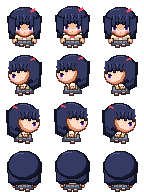
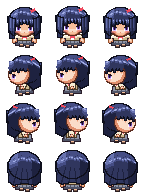
ちびキャラ：ユイの髪を束ごとに塗り分ける（放射状の束、天使の輪、前髪の光の筋、縦の束）
Claude-Session: https://claude.ai/code/session_017gxvkc2TW4xYgG5MuSL3N1

diff --git a/files.js b/files.js
@@ -2,7 +2,7 @@
 // マップなどを足したら scripts に1行足す（順番どおりに読み込む。main.js は最後）。
 // 版の番号 v は tools/stamp.py が書き換える。
 window.FILES = {
-  v: '20261127043421',
+  v: '20261127043822',
   scripts: [
     'engine/core.js',
     'engine/world.js',

diff --git a/tools/sprites/make_chibi.py b/tools/sprites/make_chibi.py
@@ -344,6 +344,76 @@ def head(a, c, side):
         a.part([('p', [(6.4, 9), (10, 7.4), (10.8, 9.2), (7.2, 10.8)])], c['ribbon1'], c['ribbon2'], lw=0.4)
 
 
+HAIR_TONES = ['#a3aee6', '#6873b0', '#454d84', '#30365e', '#1e2240']  # 女子の髪：光・明・中・暗・影
+
+
+def hair_shade(im, c, side):
+    """女子の髪を束ごとに塗り分ける（髪の色だけを塗り直す。輪郭や飾りはそのまま）。
+    頭頂：つむじから放射状の束、境目は暗い線、頭の丸みに沿った天使の輪（束の真ん中だけいちばん明るい）。
+    前髪：毛先の束ごと、上が明るく下ほど暗い、束の真ん中に光の筋。横・後ろの髪：縦の束、左が明るく右と下が暗い"""
+    import math
+    T = [rgb(h) for h in HAIR_TONES]
+    src = {tuple(c[k][:3]) for k in ('hair1', 'hair2', 'hairL')}
+    px = im.load()
+    front = side == 'down'
+    cx0 = -4 if side == 'left' else 0   # 横向きはつむじが後ろ寄り
+    tips = [(-12.4, -8.2), (-8.8, -4.6), (-4.6, -1.8), (-1.6, 1.6), (1.8, 4.6), (4.6, 8.8), (8.2, 12.4)]
+    bx = [(-12.4 + -8.2) / 2] + [(t0 + t1) / 2 for t0, t1 in tips[1:]]
+
+    def strand(x, y):  # 頭頂の束の番号と、束の中の位置（0〜1）
+        th = math.atan2(x - cx0, y + 3)
+        v = th / 0.24 + 0.5
+        return math.floor(v), v - math.floor(v)
+    if side == 'up':
+        strand = lambda x, y, _s=strand: (lambda th: (math.floor(th / 0.2 + 0.5), th / 0.2 + 0.5 - math.floor(th / 0.2 + 0.5)))(math.atan2(x, y - 2))
+
+    for Y in range(FH):
+        for X in range(FW):
+            p = px[X, Y]
+            if p[3] < 128 or tuple(p[:3]) not in src:
+                continue
+            x, y = X - CX + 0.5, Y + 0.5
+            if front and y >= 18 and abs(x) < 9.6:   # 前髪
+                k = sum(1 for b in (-8.5, -4.7, -1.7, 1.7, 4.7, 8.5) if x > b)
+                edges = [-8.5, -4.7, -1.7, 1.7, 4.7, 8.5]
+                left = max([b for b in edges if b < x], default=-12.4)
+                right = min([b for b in edges if b > x], default=12.4)
+                t = 2 if y < 21 else 3 if y < 23.5 else 4
+                if abs(x - left) < 0.6 or abs(x - right) < 0.6:
+                    t = 4  # 束の境目
+                elif abs(x - (left + right) / 2) < 0.6 and 18.5 < y < 22:
+                    t = 1 if k % 2 else 2 if y > 20.5 else 1  # 束の真ん中の光の筋
+                    if k % 2 and y < 20:
+                        t = 0
+            elif y >= 16 and abs(x) >= 9.6 and side == 'down':   # 顔の横の髪・後ろ髪（縦の束）
+                t = 2
+                if (X - CX) % 3 == 0:
+                    t = 3  # 縦の束の境目
+                elif (X - CX) % 3 == 1 and y < 27:
+                    t = 1  # 束の光
+                if y > 30:
+                    t = min(4, t + 1)
+                if x > 0:
+                    t = min(4, t + 1)  # 右側は陰
+            else:   # 頭頂（後ろ向き・横向きは頭全体）。つむじから放射状の束と、ギザギザの天使の輪
+                n, f = strand(x, y)
+                band = (11.2 if side != 'up' else 13.5) + 0.018 * (x - cx0) ** 2 + [0, 1, 0.5, -0.5][n % 4]
+                t = 2 if y < band + 2.5 else 3
+                if y > band + 9:
+                    t = 4 if f < 0.2 else 3
+                if abs(y - band) < 1.1:
+                    t = 1
+                    if abs(y - band) < 0.6 and 0.25 < f < 0.75:
+                        t = 0
+                if f < 0.2 and y > band - 3:
+                    t = 2 if abs(y - band) < 1.1 else max(t, 3)  # 束の境目（輪の中では1段だけ暗く）
+                if x - cx0 < -6 and 2 <= t <= 3 and y < band + 6:
+                    t -= 1  # 左上から光
+                if x - cx0 > 8 and y > band + 1:
+                    t = min(4, t + 1)
+            px[X, Y] = T[t] + (255,)
+
+
 Art = Pixel  # 塗り方：Pixel（くっきりしたドット絵）／Chibi（イラストを縮めた柔らかい塗り）
 
 
@@ -354,6 +424,8 @@ def frame(ch, d, step):
     body(a, c, side, step, side == 'up')
     up = Art()
     head(up, c, side)
+    if c['girl'] and Art is Pixel:
+        hair_shade(up.im, c, side)
     im = a.im
     bob = 0 if step == 1 else (1 if Art is Pixel else round(0.6 * SS))
     im.alpha_composite(up.im, (0, bob))

diff --git a/CLAUDE.md b/CLAUDE.md
@@ -10,7 +10,7 @@
 - 校舎（廊下8枚と部屋の型）は `tools/gen_school.py` で生成する。生成した `data/maps/school_*.js` は直接直さず、スクリプトを直して作り直す。お話のイベントは `data/story.js` に `G.addEvents` で足す（`at: '扉の名前'` で位置を決められる）。見取り図の施設名のうち学校が特定されそうな名前は一般的な名前に変える
 - 参考にした市販ゲームのファイル（データ・画像・音・シナリオ）はこのリポジトリに入れない
 - タイル素材（ドット絵世界）は二次配布禁止。元のPNGは入れず、`tools/encode_tileset.py` で変換した `data/tilesets/*.js` だけを入れる。タイトル画面の著作権表示（system.js の credits）は消さない
-- キャラの歩行グラフィックは、いまはちびキャラ（手本：RPGツクールMVの標準キャラの比率、約1.5頭身、1コマ48×48px）。`tools/sprites/make_chibi.py` で描き、`img/chars/haru_chibi.png`・`img/chars/yui_chibi.png` に書き出す。塗りは手本と同じくっきりしたドット絵（48×48pxに直接描く。ベタ塗り、段をつけた影と光、部品ごとに1ドットの濃い輪郭、目は1ドットずつ形を決め、白い光はほぼ使わず外側の白目と上が濃い瞳で表す。髪のかたまりは小さめで額は高め、前髪には毛束の明るい筋を1本おきに入れて凹凸を出す。胴は肩が細く裾へ広がる八の字で、腕も外へ開く。前髪の毛先は目の上端に接するまで下ろし、真ん中の毛束だけ短くしてそのすき間から額をのぞかせる。前髪のすぐ下の肌には影（1段目は影色、2段目は中間色）。顔の横の髪で、目の外側の端からあごの近くまで顔を縁取る（男子は細く短め）。肌は桃色がかった色（白っぽくしない）。顔は上下と左右に4段（明・中間・影・濃い影）の明暗をドット単位でつけて立体感を出す（前髪の下は中間色→目の下から頬の段がいちばん明るい→その下は中間色→あごの段は影色。左右の端は内側へ濃い影→影→中間色、頬の段は影を1段多く）。目はまるごと見せる。やや上から見下ろしつつ足先まで全身を見せる（胴→スカート／ズボン→脚1ドット（女子は肌色）→靴2ドット（上が明るく下が暗い）。左右の足は幅5ドット（輪郭＋中身3）で間に1ドットのすき間。歩くと上げた足が1ドット上がる）。目は顔の大きさを変えずに大きく、5×5ドット（上まつげは3ドット幅で2段目が内側へ1ドットずれる斜め、黒目3ドット幅で上が濃く一番下が明るい、真ん中に縦2ドットの瞳孔、白目は外側3段・内側2段の両側）。目の間は7ドットで、目の外側は顔の縁（横の髪）に接する。見下ろす角度なので、肩はあごのすぐ下の行から始まり（上の面が明るく見える）、なで肩で下へ広がる。手は丸ではなくミトン形（幅4×高さ5、外側の輪郭は茶色・内側と下は濃い線で腕と胴の境目にもなる、明るい肌は真ん中上寄りに2×2、下の段の内側が欠けてその上に親指の付け根の点）。服の輪郭も濃い色。男子はシャツ6段・ベルト1段・ズボン3段（明るめの色、股の線）。女子のスカートは下半分に、地より濃い色の縦の折り目の線（中心をはさんで4ドット間隔の2本と、裾の両端寄り）。口は省いて鼻を1ドットの点で表す（頬のいちばん明るい段の最後の行、31行目）。幅の割合は、手を含めた体が頭の約8割。その中で胴は細く、肩と手を大きめにする）。手本を使うときは、数字で測るだけでなく必ず拡大して絵そのものを見比べる。「イラストを縮めた柔らかい塗り」は4頭身のための試しで、ちびキャラには使わない。3頭身・4頭身は見送り。約4頭身の版（`make_trial.py`→`trial.png`、`make_haru.py`→`haru.png`）も残してある。手本の絵は写さない（比率と描き方だけ合わせる）。直したらスクリプトを動かして画像を作り直す
+- キャラの歩行グラフィックは、いまはちびキャラ（手本：RPGツクールMVの標準キャラの比率、約1.5頭身、1コマ48×48px）。`tools/sprites/make_chibi.py` で描き、`img/chars/haru_chibi.png`・`img/chars/yui_chibi.png` に書き出す。塗りは手本と同じくっきりしたドット絵（48×48pxに直接描く。ベタ塗り、段をつけた影と光、部品ごとに1ドットの濃い輪郭、目は1ドットずつ形を決め、白い光はほぼ使わず外側の白目と上が濃い瞳で表す。髪のかたまりは小さめで額は高め、前髪には毛束の明るい筋を1本おきに入れて凹凸を出す。女子の髪は5段（光・明・中・暗・影）で束ごとに塗り分ける（make_chibi.py の hair_shade。頭頂はつむじから放射状の束で境目に暗い線、頭の丸みに沿って束ごとに上下へずれたギザギザの天使の輪（束の真ん中だけ光の色）、前髪は束ごとに上が明るく下ほど暗く真ん中に光の筋、横・後ろの髪は縦の束で左が明るく右と下が暗い。髪型が手本と違うので、ここは手本を写さず工夫したもの）。胴は肩が細く裾へ広がる八の字で、腕も外へ開く。前髪の毛先は目の上端に接するまで下ろし、真ん中の毛束だけ短くしてそのすき間から額をのぞかせる。前髪のすぐ下の肌には影（1段目は影色、2段目は中間色）。顔の横の髪で、目の外側の端からあごの近くまで顔を縁取る（男子は細く短め）。肌は桃色がかった色（白っぽくしない）。顔は上下と左右に4段（明・中間・影・濃い影）の明暗をドット単位でつけて立体感を出す（前髪の下は中間色→目の下から頬の段がいちばん明るい→その下は中間色→あごの段は影色。左右の端は内側へ濃い影→影→中間色、頬の段は影を1段多く）。目はまるごと見せる。やや上から見下ろしつつ足先まで全身を見せる（胴→スカート／ズボン→脚1ドット（女子は肌色）→靴2ドット（上が明るく下が暗い）。左右の足は幅5ドット（輪郭＋中身3）で間に1ドットのすき間。歩くと上げた足が1ドット上がる）。目は顔の大きさを変えずに大きく、5×5ドット（上まつげは3ドット幅で2段目が内側へ1ドットずれる斜め、黒目3ドット幅で上が濃く一番下が明るい、真ん中に縦2ドットの瞳孔、白目は外側3段・内側2段の両側）。目の間は7ドットで、目の外側は顔の縁（横の髪）に接する。見下ろす角度なので、肩はあごのすぐ下の行から始まり（上の面が明るく見える）、なで肩で下へ広がる。手は丸ではなくミトン形（幅4×高さ5、外側の輪郭は茶色・内側と下は濃い線で腕と胴の境目にもなる、明るい肌は真ん中上寄りに2×2、下の段の内側が欠けてその上に親指の付け根の点）。服の輪郭も濃い色。男子はシャツ6段・ベルト1段・ズボン3段（明るめの色、股の線）。女子のスカートは下半分に、地より濃い色の縦の折り目の線（中心をはさんで4ドット間隔の2本と、裾の両端寄り）。口は省いて鼻を1ドットの点で表す（頬のいちばん明るい段の最後の行、31行目）。幅の割合は、手を含めた体が頭の約8割。その中で胴は細く、肩と手を大きめにする）。手本を使うときは、数字で測るだけでなく必ず拡大して絵そのものを見比べる。「イラストを縮めた柔らかい塗り」は4頭身のための試しで、ちびキャラには使わない。3頭身・4頭身は見送り。約4頭身の版（`make_trial.py`→`trial.png`、`make_haru.py`→`haru.png`）も残してある。手本の絵は写さない（比率と描き方だけ合わせる）。直したらスクリプトを動かして画像を作り直す
 - 字体：ゲームの文字は M+ 1m（`fonts/mplus-1m-regular.ttf`、M+ FONTS は自由に使用・配布できる）。`G.font()` と css/style.css で指定している。収録外の文字（♪など）は端末のフォントになる
 - 公開は gh-pages ブランチから。更新したら、まず `python3 tools/stamp.py`（files.js の版の番号を新しくする。ブラウザが古いファイルを使い回して新旧が混ざるのを防ぐ）、コミットして `git push origin main main:gh-pages` で両方に送る。そのあと `gh api repos/nzanke/game-test/actions/runs` で「pages build and deployment」が新しいコミットで completed success になったのを確かめてから報告する。ビルドが走らないときは空のコミットを送り直す（Pages 設定のAPIは作業環境から使えない）
 - やりとりと説明は日本語で
